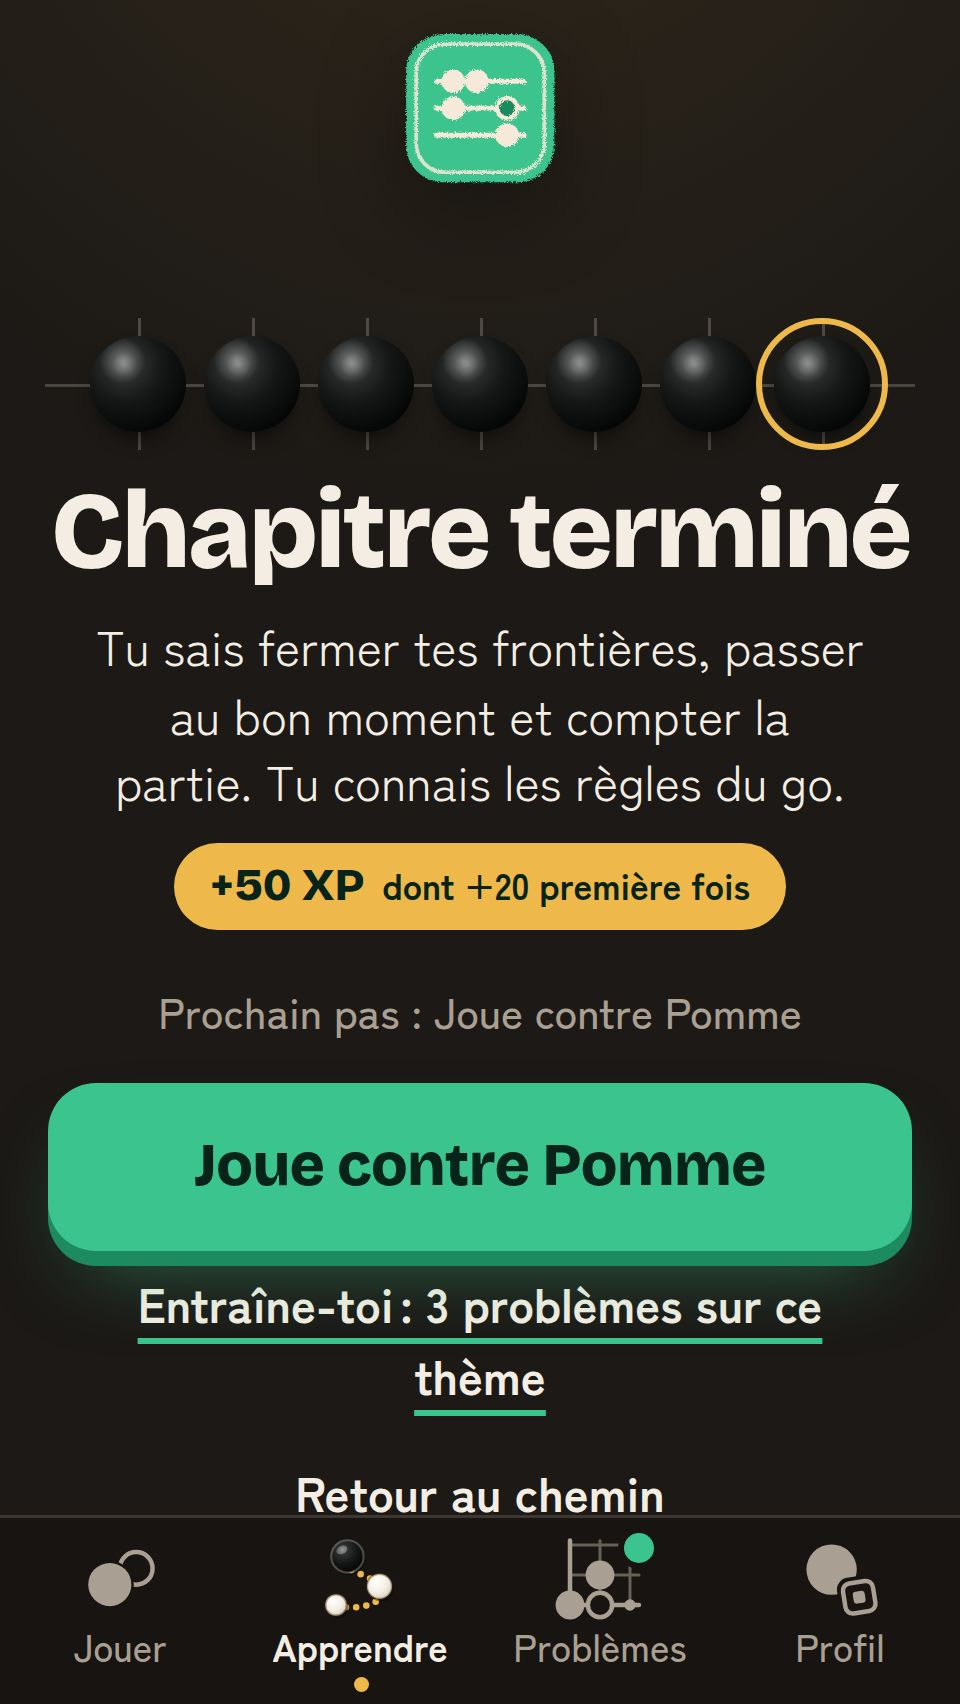
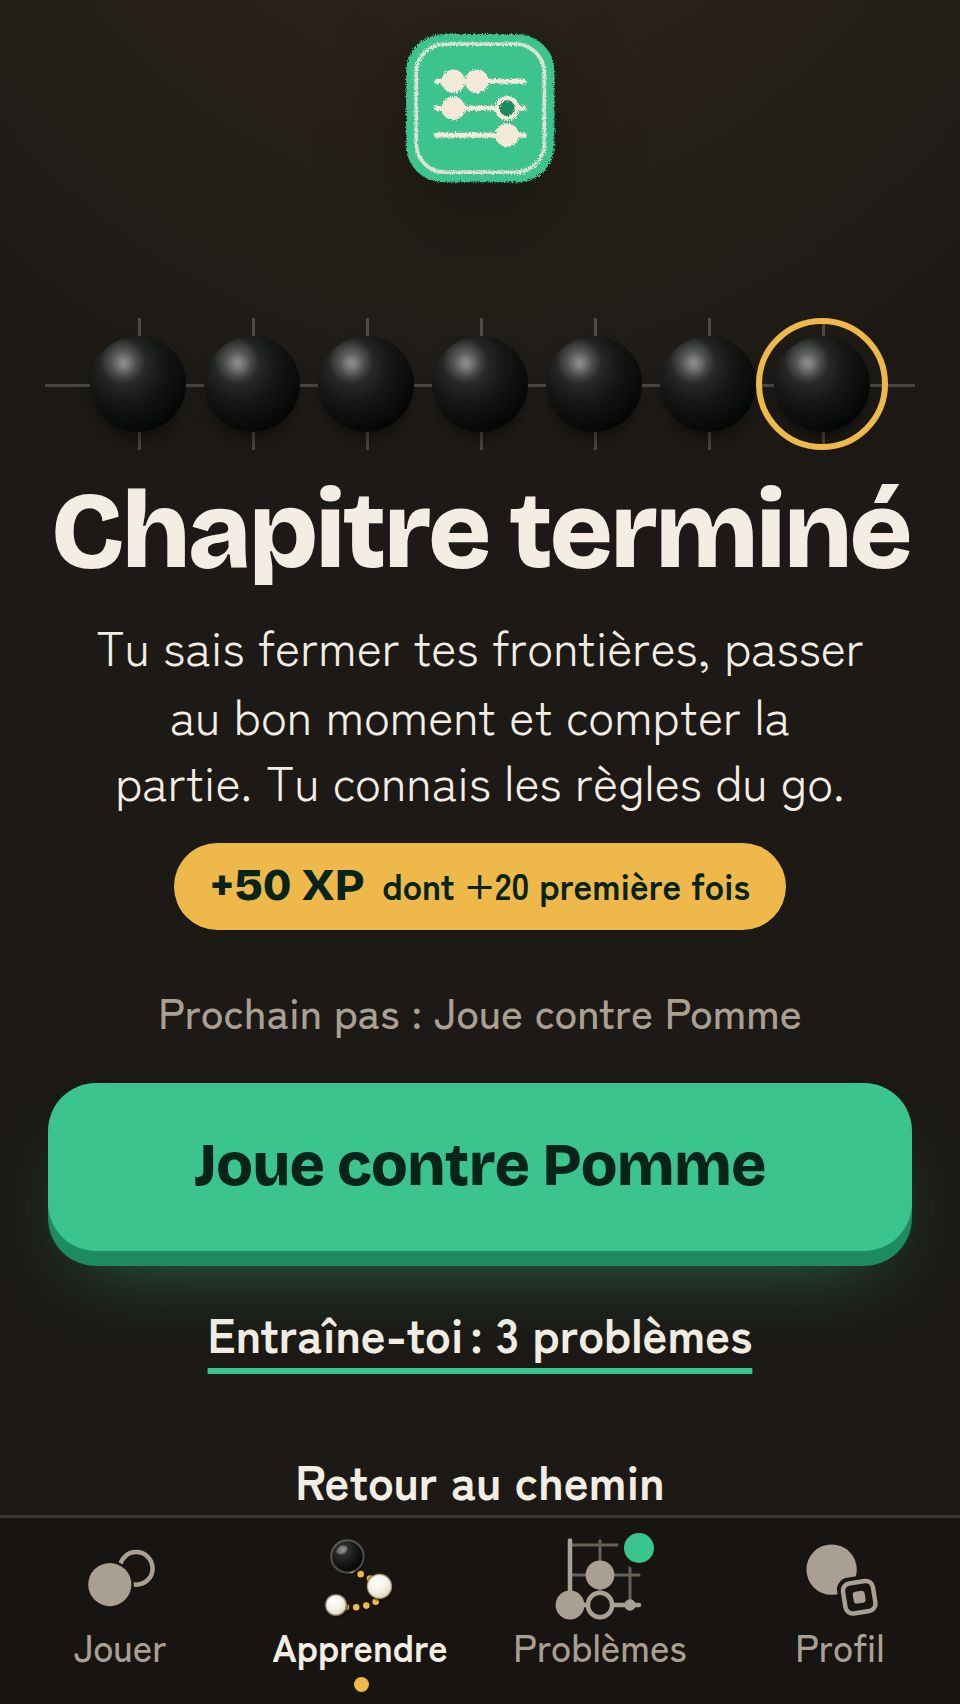
#16 e2e : fins des leçons 7 et 8 avec leurs nouvelles séries, règle #220 inchangée
La CI échouait sur deux assertions « pas encore de problèmes, donc pas d'entraînement », rendues caduques par le lot X.
Le code respecte déjà la règle #220 ; aucun changement d'appli :
- Leçon 7 (ferme le chapitre 1) : « Joue contre Pomme » reste l'unique action en relief ; l'entraînement (Finir la
  partie, Compter) est un lien secondaire. Vérifié dans lecon-pratique.spec.ts et lecons-pratique-4-6-7-8.spec.ts.
- Leçon 8 : le chapitre 2 est en cours d'écriture (complet: false), la leçon 8 ne le ferme pas. Fin de leçon
  classique, sans partie contre Pomme ; la série d'ouverture y est l'action principale, comme pour les leçons 9 à 16.
- Captures de fin de leçon 7 refaites avec le libellé raccourci de #395.

Claude-Session: https://claude.ai/code/session_01MBh4E5pGWe9HRzjpTV2rVx

Changed region(s): [[0.125, 0.7465, 0.875, 0.8398], [0.3125, 0.8398, 0.6875, 0.902]]

diff --git a/e2e/apprendre.spec.ts b/e2e/apprendre.spec.ts
@@ -364,10 +364,13 @@ test('leçon 8 : bien commencer sur 9 × 9, du chemin à la fin de leçon', asyn
   await expect(page.getByText(/Bien étendu/)).toBeVisible();
   await page.getByRole('button', { name: 'Terminer la leçon' }).click();
 
-  // Chapitre en cours d'écriture : fin de leçon classique, sans entraînement (pas encore de problèmes d'ouverture).
+  // Chapitre en cours d'écriture : la leçon 8 ne le ferme pas, fin de leçon classique (pas de partie contre Pomme).
+  // #16, lot X : sa série d'ouverture (13 × 13) y est l'action principale, comme pour les leçons 9 à 16.
   await expect(page.getByRole('heading', { name: 'Leçon terminée' })).toBeVisible();
   await expect(page.getByText(/coins, bords, puis centre/)).toBeVisible();
-  await expect(page.getByRole('button', { name: /^Entraîne-toi/ })).toHaveCount(0);
+  await expect(page.getByRole('button', { name: /^Entraîne-toi\s:\s3 problèmes sur ce thème, Ouverture$/ })).toHaveClass(/\bcta\b/);
+  await expect(page.locator('.fin-lecon .cta')).toHaveCount(1);
+  await expect(page.getByRole('button', { name: 'Joue contre Pomme' })).toHaveCount(0);
   await expect(page.getByTestId('confettis')).toHaveCount(0);
   await page.getByRole('button', { name: 'Retour au chemin' }).click();
   await expect(page.getByRole('button', { name: 'Leçon 8 : Les premiers coups, terminée' })).toBeVisible();

diff --git a/e2e/lecon-pratique.spec.ts b/e2e/lecon-pratique.spec.ts
@@ -70,8 +70,9 @@ test('fin de chapitre : « Joue contre Pomme » en action principale, qui lance 
   const jouerPomme = page.getByRole('button', { name: 'Joue contre Pomme' });
   await expect(jouerPomme).toHaveClass(/\bcta\b/);
   await expect(page.locator('.fin-lecon .cta')).toHaveCount(1);
-  // La leçon 7 (comptage) n'a pas encore de problèmes : pas d'entraînement proposé.
-  await expect(page.getByRole('button', { name: /^Entraîne-toi/ })).toHaveCount(0);
+  // #16, lot X : la leçon 7 a sa série (fin de partie et comptage), mais en fin de chapitre elle reste un lien
+  // secondaire (#220) : Pomme garde seul le relief.
+  await expect(page.getByRole('button', { name: /^Entraîne-toi\s:\s3 problèmes sur ce thème, Finir la partie, Compter$/ })).toHaveClass(/\blien\b/);
   await expect(page.getByRole('button', { name: 'Retour au chemin' })).toHaveClass(/\blien\b/);
   await jouerPomme.click();
   await expect(page.locator('main.app-partie')).toBeVisible();

diff --git a/e2e/lecons-pratique-4-6-7-8.spec.ts b/e2e/lecons-pratique-4-6-7-8.spec.ts
@@ -87,6 +87,9 @@ for (const [largeur, hauteur, theme] of [[390, 844, 'light'], [320, 568, 'dark']
     // proposé juste après, avec ses deux thèmes.
     const pratique = page.getByRole('button', { name: /^Entraîne-toi\s:\s3 problèmes sur ce thème, Finir la partie, Compter$/ });
     await expect(pratique).toBeVisible();
+    // #220 : en fin de chapitre, Pomme garde seul le relief ; l'entraînement est un lien.
+    await expect(page.getByRole('button', { name: 'Joue contre Pomme' })).toHaveClass(/\bcta\b/);
+    await expect(pratique).toHaveClass(/\blien\b/);
     await expect(page.locator('.fin-lecon .cta')).toHaveCount(1);
     expect((await pratique.boundingBox())!.height).toBeGreaterThanOrEqual(44);
     await sansDebordement(page, 'fin de la leçon 7');
